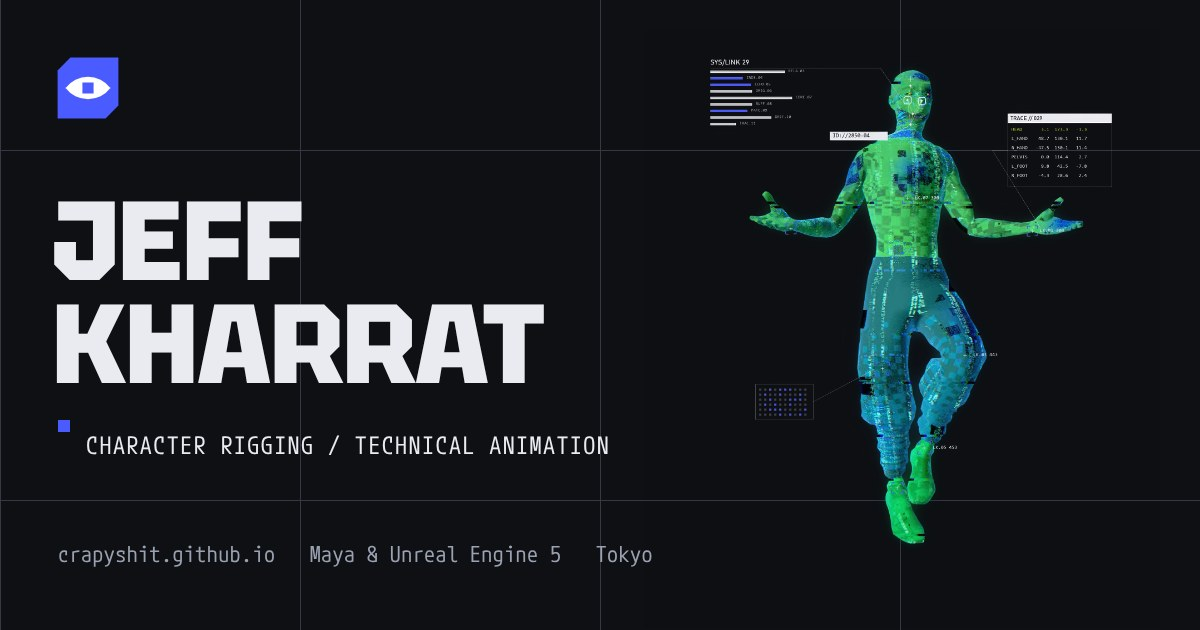
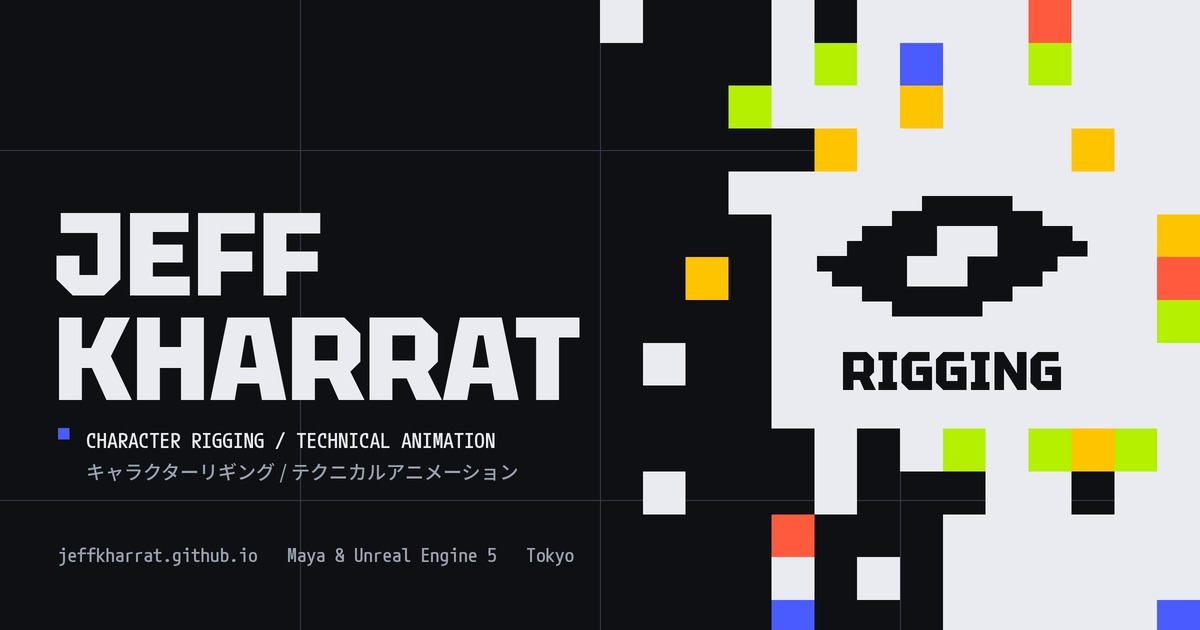
Share preview: pixel-wipe og-image, fix old crapyshit URLs
New 1200x630 og-image in the style of the page-change wipe (ink blocks,
accent-coloured edge cells, eye sigil). og:url / og:image / twitter:image
and the GitHub contact link now point to jeffkharrat.

Claude-Session: https://claude.ai/code/session_01CYW55Tuz7Spg4X5zJ2grRo

diff --git a/index.html b/index.html
@@ -22,11 +22,12 @@
 <meta property="og:title" content="Jeff Kharrat Portfolio">
 <meta property="og:description" content="Character rigging and technical animation, Maya and Unreal Engine 5.">
 <meta property="og:type" content="website">
-<meta property="og:url" content="https://crapyshit.github.io/">
-<meta property="og:image" content="https://crapyshit.github.io/og-image.jpg">
+<meta property="og:url" content="https://jeffkharrat.github.io/">
+<meta property="og:image" content="https://jeffkharrat.github.io/og-image.jpg?v=2">
+<meta name="twitter:image" content="https://jeffkharrat.github.io/og-image.jpg?v=2">
 <meta property="og:image:width" content="1200">
 <meta property="og:image:height" content="630">
-<meta property="og:image:alt" content="Jeff Kharrat, character rigging and technical animation">
+<meta property="og:image:alt" content="Jeff Kharrat, character rigging and technical animation, with the site's pixel-block page wipe and eye logo">
 <meta name="twitter:card" content="summary_large_image">
 <link rel="icon" href="favicon.ico?v=4" sizes="32x32">
 <link rel="icon" href="favicon.svg?v=4" type="image/svg+xml">
@@ -974,7 +975,7 @@ body[data-view="page"] .lore--bg{display:none}
 const SITE = {
   email: 'jeanfkh@gmail.com',
   links: [['LinkedIn', 'https://www.linkedin.com/in/jean-fran%C3%A7ois-kharrat/'], ['ArtStation', 'https://www.artstation.com/jeanfkh'],
-    ['YouTube', 'https://youtube.com/@jfk4852'], ['GitHub', 'https://github.com/CrapyShit']],
+    ['YouTube', 'https://youtube.com/@jfk4852'], ['GitHub', 'https://github.com/JeffKharrat']],
   media: {   // stage layers: one clip, or { dark, light } to follow the theme; empty layers reuse the shaded clip
     shaded: { dark: 'media/stage/oni_dark_final.webm', light: 'media/stage/oni_light_final.webm' },
     wire: { dark: 'media/stage/oni_dark_wire.webm', light: 'media/stage/oni_light_wire.webm' },
